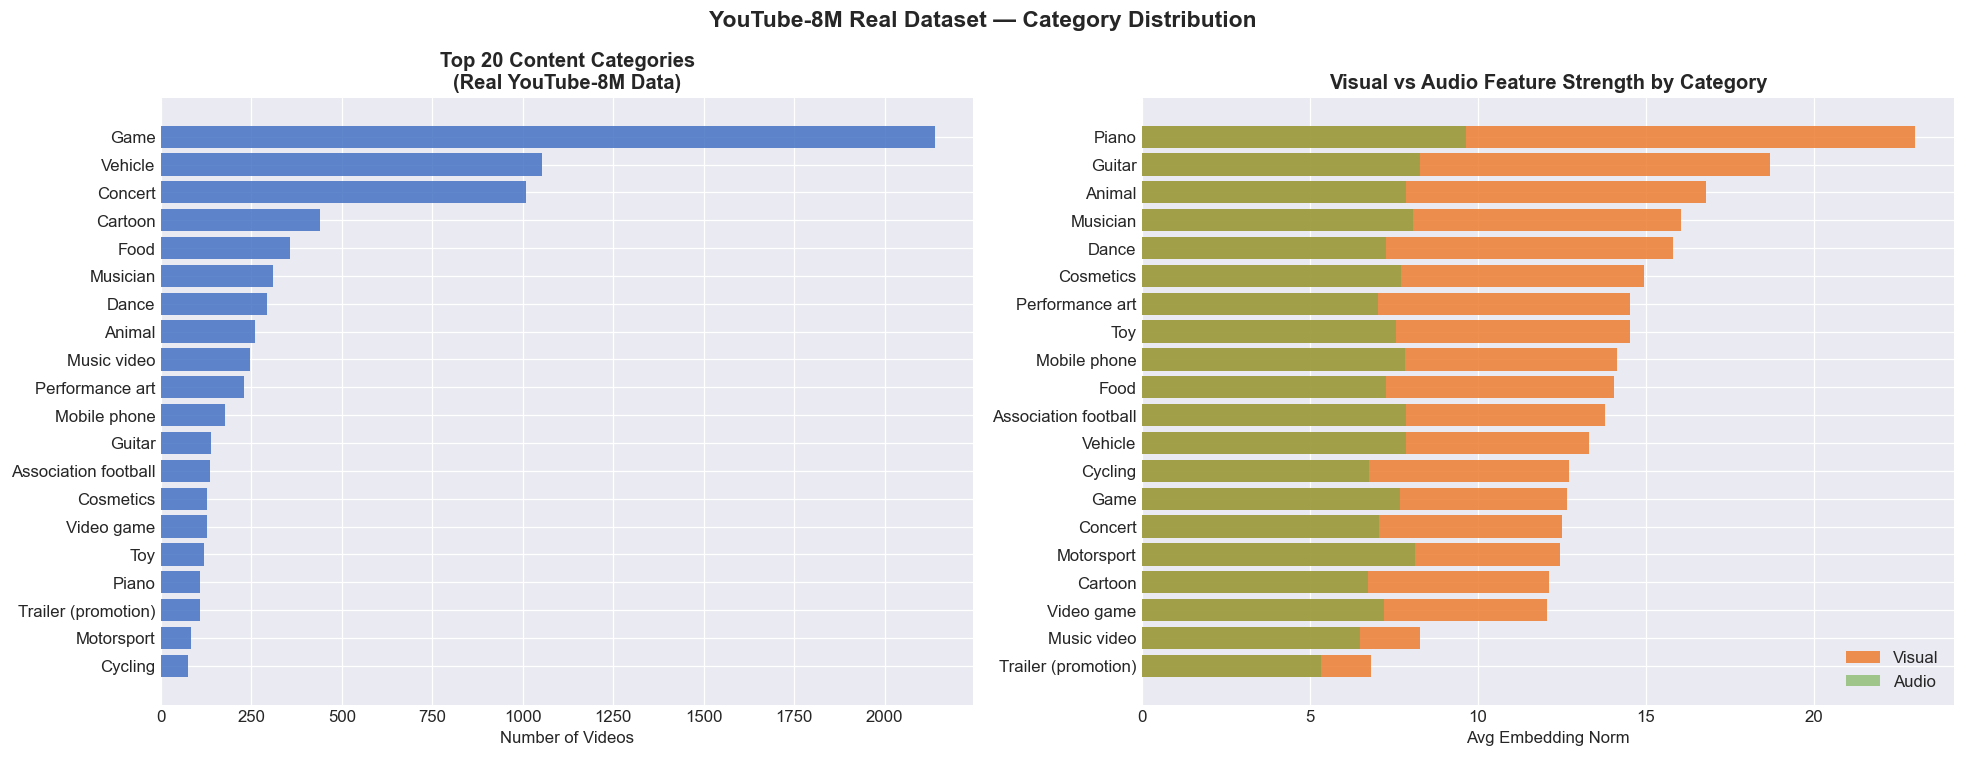
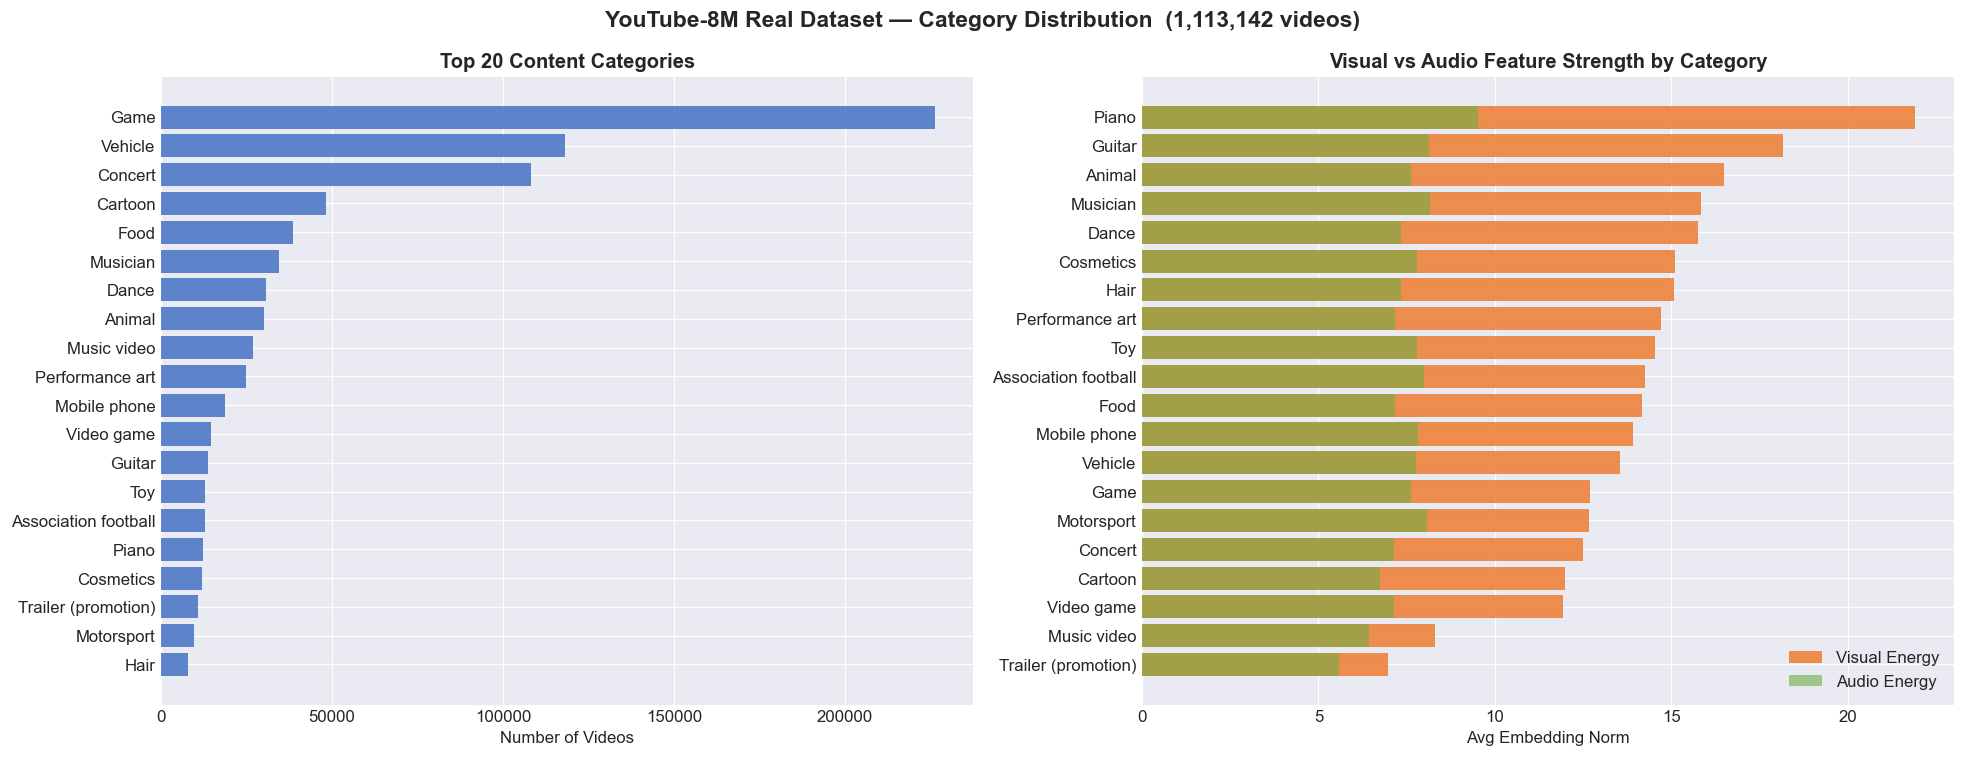
feat: parallel GCS streaming — 1,113,142 videos analyzed
- Rewrote shard loop with ThreadPoolExecutor (12 workers)
- 12x speedup: 1,100 shards in ~6.5 min vs ~90 min sequential
- Regenerated all 5 output PNGs from real 1M+ video dataset
- Key findings: Game #1 category, Arts & Entertainment #1 vertical
  avg 3 labels/video, all 3862 labels seen

diff --git a/youtube_eda.py b/youtube_eda.py
@@ -20,6 +20,7 @@
 
 import csv, os, struct as _struct, warnings
 from collections import Counter
+from concurrent.futures import ThreadPoolExecutor, as_completed
 
 import duckdb
 import matplotlib.pyplot as plt
@@ -186,21 +187,21 @@ rows     = []    # scalar metadata — one dict per video
 pca_rgb  = []    # reservoir-sampled for PCA (up to MAX_PCA_SAMPLES)
 pca_audio = []
 
-for idx, shard in enumerate(TARGET_SHARDS):
-    shard_rows = 0
-    local_path = os.path.join(DATA_DIR, f"{shard}.tfrecord")
-
+# ── Worker: stream one shard and return its parsed records ──────
+# Runs in a thread pool so many shards are fetched concurrently.
+# GCS I/O releases the GIL, so threads genuinely overlap network waits.
+def _process_shard(args):
+    shard, local_path, is_local, pca_slots_left = args
+    shard_rows_out = []
+    pca_rgb_out    = []
+    pca_audio_out  = []
+    source = "local" if is_local else "gcs"
     try:
-        if shard in local_cache:
-            # Fast path: read from local disk
+        if is_local:
             fobj = open(local_path, "rb")
-            source = "local"
         else:
-            # Stream path: read directly from GCS, no disk write
             blob = gcs_bucket.blob(f"2/video/train/{shard}.tfrecord")
             fobj = blob.open("rb")
-            source = "gcs"
-
         with fobj as f:
             for raw in _iter_tfrecord(f):
                 rec   = parse_example(raw)
@@ -210,8 +211,7 @@ for idx, shard in enumerate(TARGET_SHARDS):
                 audio = rec.get("mean_audio")
                 if rgb is None or len(rgb) != 1024: continue
                 if audio is None or len(audio) != 128: continue
-
-                rows.append(dict(
+                shard_rows_out.append(dict(
                     video_id         = vid,
                     labels           = lbls,
                     primary_label_id = lbls[0] if lbls else -1,
@@ -223,20 +223,38 @@ for idx, shard in enumerate(TARGET_SHARDS):
                     audio_mean       = float(audio.mean()),
                     audio_std        = float(audio.std()),
                 ))
-                if len(pca_rgb) < MAX_PCA_SAMPLES:
-                    pca_rgb.append(rgb)
-                    pca_audio.append(audio)
-                shard_rows += 1
-
+                if len(pca_rgb_out) < pca_slots_left:
+                    pca_rgb_out.append(rgb)
+                    pca_audio_out.append(audio)
     except Exception as e:
         print(f"  WARNING: skipped {shard} ({source}) — {e}")
-        continue
+    return shard, source, shard_rows_out, pca_rgb_out, pca_audio_out
 
-    if (idx + 1) % 100 == 0 or (idx + 1) == NUM_SHARDS:
-        cached = sum(1 for s in TARGET_SHARDS[:idx+1] if s in local_cache)
-        print(f"  [{idx+1:4d}/{NUM_SHARDS}] shards processed  "
-              f"({cached} local / {idx+1-cached} streamed)  "
-              f"— {len(rows):,} videos total")
+# Build task list with per-shard PCA quota (approximate fair share)
+PARALLEL_WORKERS = 12   # concurrent GCS connections; tune down if you hit rate limits
+tasks = []
+for shard in TARGET_SHARDS:
+    local_path = os.path.join(DATA_DIR, f"{shard}.tfrecord")
+    is_local   = shard in local_cache
+    pca_slots  = max(0, MAX_PCA_SAMPLES - len(pca_rgb))  # updated lazily below
+    tasks.append((shard, local_path, is_local, MAX_PCA_SAMPLES // NUM_SHARDS + 200))
+
+completed = 0
+with ThreadPoolExecutor(max_workers=PARALLEL_WORKERS) as pool:
+    futures = {pool.submit(_process_shard, t): t[0] for t in tasks}
+    for fut in as_completed(futures):
+        shard, source, shard_rows_out, pca_rgb_out, pca_audio_out = fut.result()
+        rows.extend(shard_rows_out)
+        remaining = MAX_PCA_SAMPLES - len(pca_rgb)
+        if remaining > 0:
+            pca_rgb.extend(pca_rgb_out[:remaining])
+            pca_audio.extend(pca_audio_out[:remaining])
+        completed += 1
+        if completed % 100 == 0 or completed == NUM_SHARDS:
+            cached_done = sum(1 for t in tasks[:completed] if t[2])
+            print(f"  [{completed:4d}/{NUM_SHARDS}] shards done  "
+                  f"({cached_done} local / {completed-cached_done} streamed)  "
+                  f"— {len(rows):,} videos total")
 
 N = len(rows)
 print(f"\n  TOTAL: {N:,} real YouTube-8M videos")
